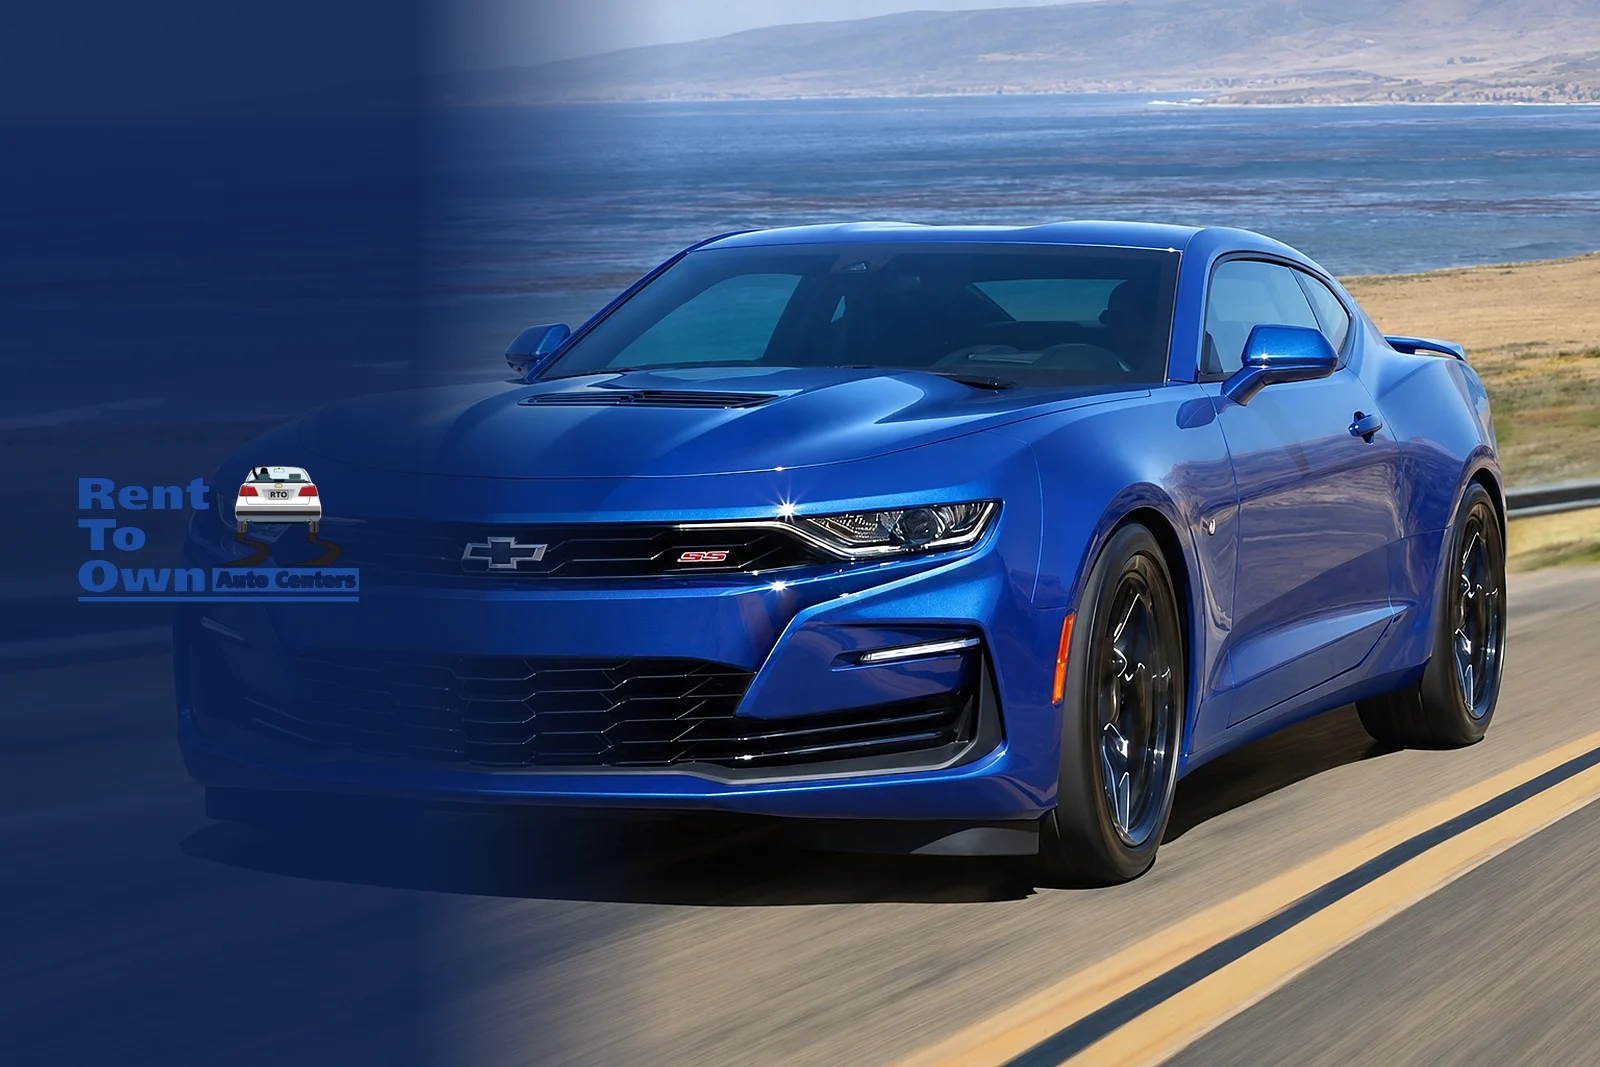
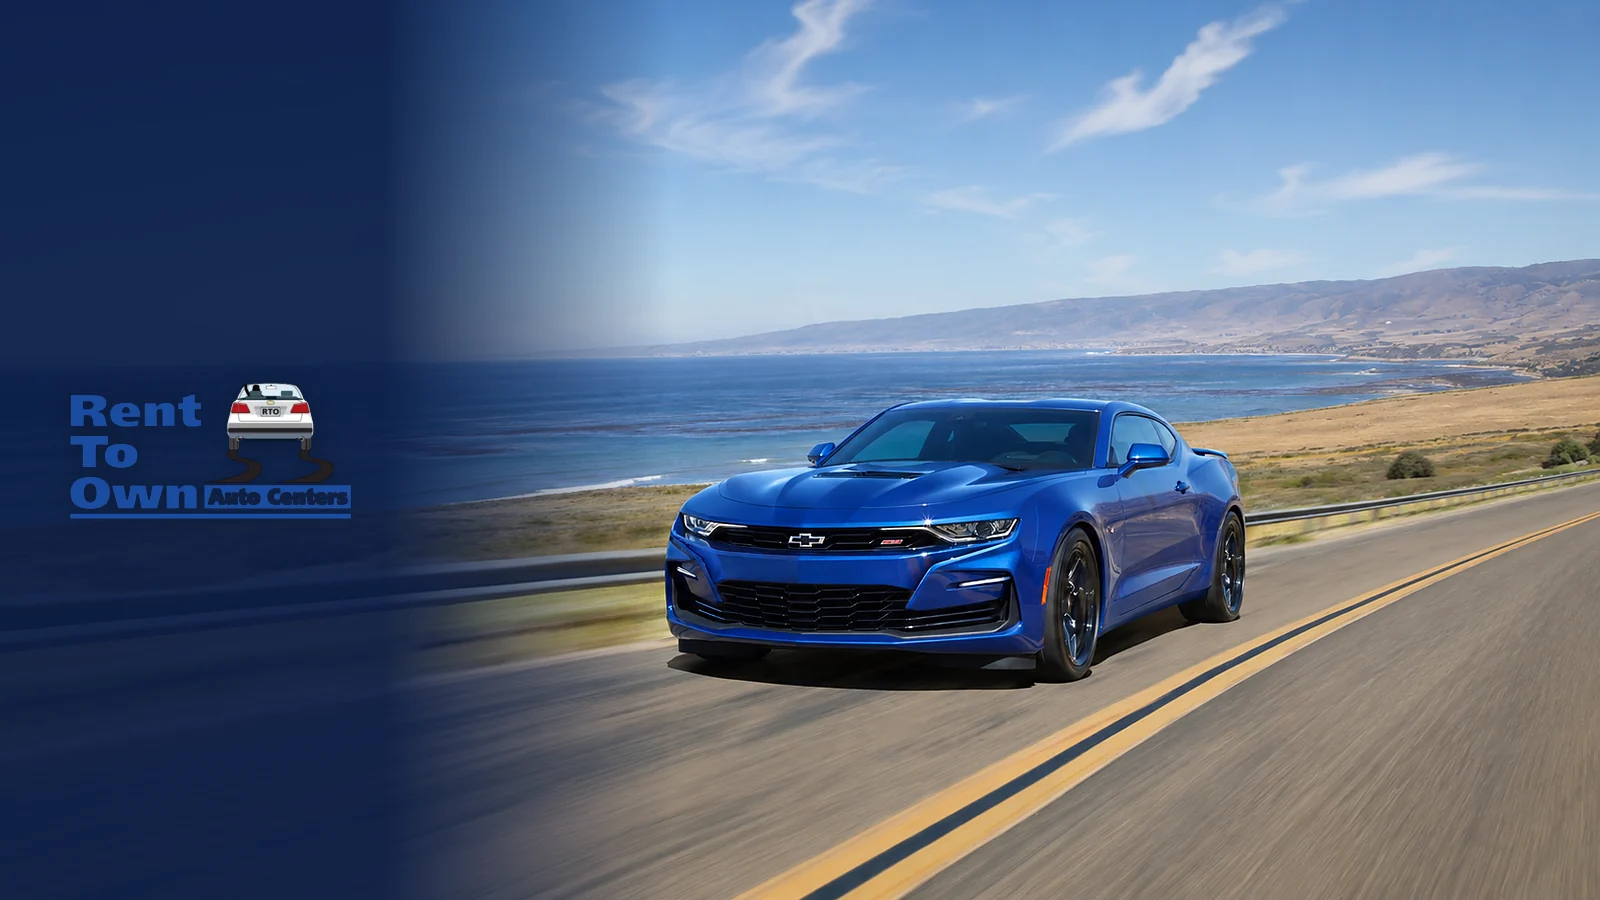
Update hero section styles and replace background images for improved visual impact

diff --git a/css/site.css b/css/site.css
@@ -167,28 +167,16 @@ h5 {
   min-height: 560px;
   display: flex;
   align-items: center;
-  /* The logo is baked into the LEFT of the image on its own blue panel, so
-     keep the overlay light and even — no heavy left gradient that would dim
-     the logo. A gentle right-side wash keeps the headline readable. */
+  /* No overlay wash — the logo sits on its own navy panel baked into the LEFT
+     of the image, and the headline relies on its text-shadow for contrast.
+     The image is shown as-is. */
   /* Fallback for browsers without image-set() */
-  background-image: linear-gradient(
-      270deg,
-      rgba(11, 28, 66, 0.6) 0%,
-      rgba(11, 28, 66, 0.25) 35%,
-      rgba(11, 28, 66, 0) 60%
-    ),
-    url("../images/cars/camaro-hero.jpg");
+  background-image: url("../images/cars/camaro-hero.jpg");
   /* Modern browsers: prefer WebP, fall back to JPG */
-  background-image: linear-gradient(
-      270deg,
-      rgba(11, 28, 66, 0.6) 0%,
-      rgba(11, 28, 66, 0.25) 35%,
-      rgba(11, 28, 66, 0) 60%
-    ),
-    image-set(
-      url("../images/cars/camaro-hero.webp") type("image/webp"),
-      url("../images/cars/camaro-hero.jpg") type("image/jpeg")
-    );
+  background-image: image-set(
+    url("../images/cars/camaro-hero.webp") type("image/webp"),
+    url("../images/cars/camaro-hero.jpg") type("image/jpeg")
+  );
   background-size: cover;
   background-position: center;
   color: #fff;
@@ -215,13 +203,14 @@ h5 {
   font-weight: 800;
   line-height: 1.1;
   margin-bottom: 1rem;
-  text-shadow: 0 2px 18px rgba(0, 0, 0, 0.35);
+  text-shadow: 0 2px 6px rgba(0, 0, 0, 0.55), 0 4px 24px rgba(0, 0, 0, 0.45);
 }
 
 .rto-hero p.lead {
   font-size: 1.2rem;
-  color: rgba(255, 255, 255, 0.92);
+  color: #fff;
   margin-bottom: 1.75rem;
+  text-shadow: 0 1px 4px rgba(0, 0, 0, 0.55);
 }
 
 .rto-hero__badges {